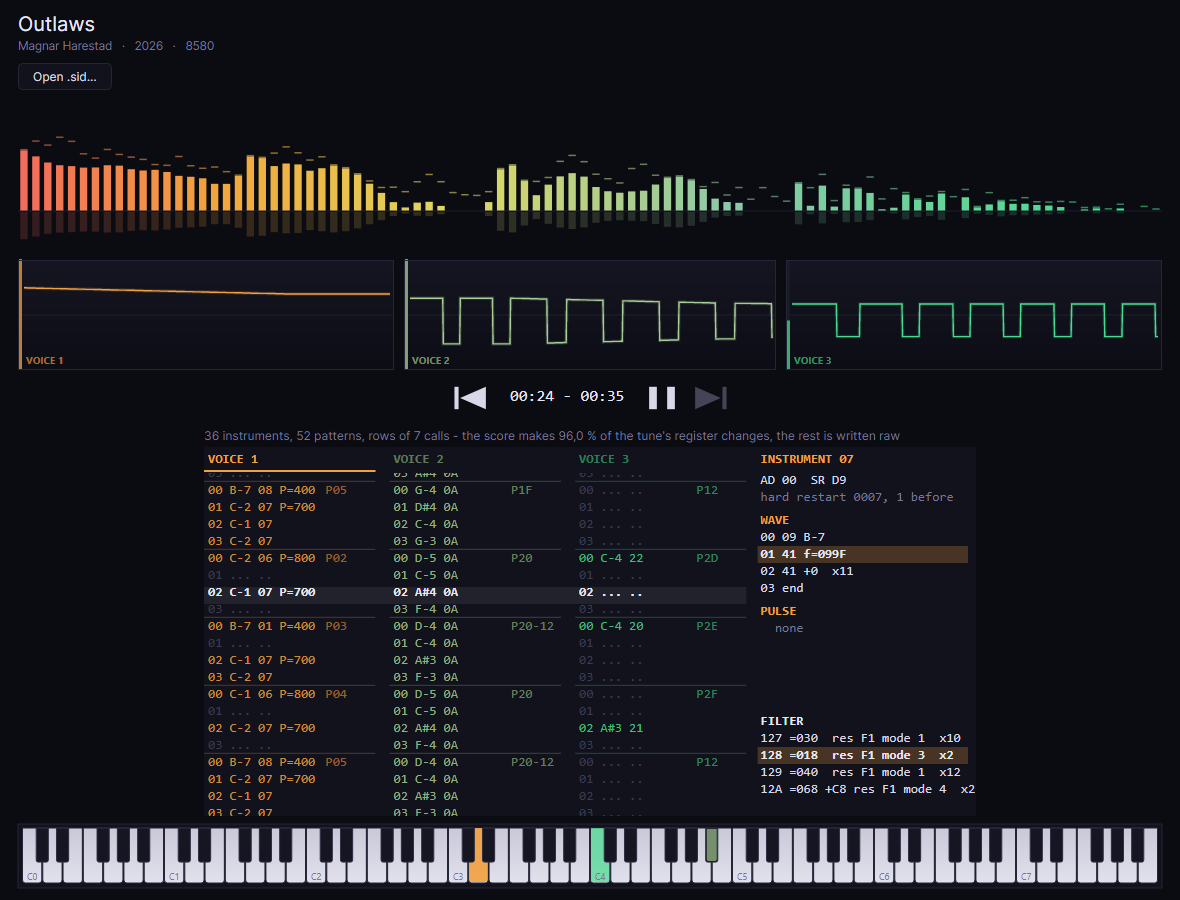
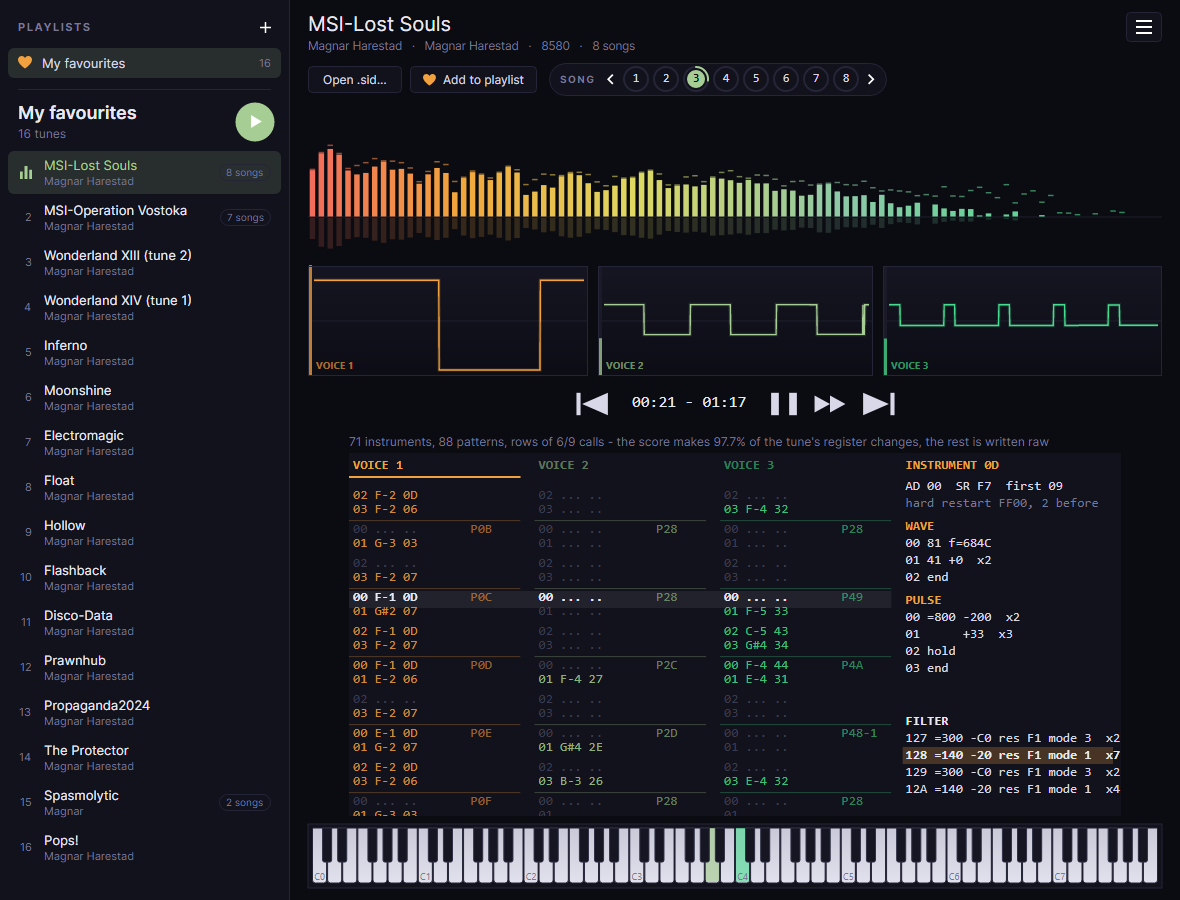
Website for 1.1: playlists, songs and fast-forward; new screenshots
The page says what 1.1 does: a folder dropped becomes a playlist, favourites made from any tune and
dragged into order, Show playlists; a tune's songs as buttons with Play every song; fast-forward
while held; Big font beside the update check. Drop and play and Get started name the folder and
the keys. Its version, date and download links are 1.1's until GitHub answers.

The screenshots are the window as it is, drawn off-screen with the author's own tunes: MSI-Lost
Souls from a favourites playlist, and Golf Dash -EXTENDED- from a folder playlist - in place of
the two from before the playlists.

diff --git a/docs/index.html b/docs/index.html
@@ -4,7 +4,7 @@
 <meta charset="utf-8">
 <meta name="viewport" content="width=device-width, initial-scale=1">
 <title>MagPlaySID - plays any C64 .sid and shows how it is built</title>
-<meta name="description" content="MagPlaySID - plays any Commodore 64 .sid tune on an emulated C64, and shows it as tracker rows - notes, instruments and effects - scrolling with the music.">
+<meta name="description" content="MagPlaySID - plays any Commodore 64 .sid tune on an emulated C64, and shows it as tracker rows - notes, instruments and effects - scrolling with the music. Drop a folder to play it as a playlist, and keep your favourites.">
 <link rel="icon" href="favicon.png">
 <link rel="stylesheet" href="style.css?v=1">
 </head>
@@ -15,26 +15,27 @@
 <main class="wrap">
   <section class="hero">
     <img src="logo.png" alt="MagPlaySID logo">
-    <h1>MagPlaySID <span id="version">v1.0</span></h1>
-    <p class="released">Release date: <time id="released" datetime="2026-10-29">2026-10-29</time></p>
+    <h1>MagPlaySID <span id="version">v1.1</span></h1>
+    <p class="released">Release date: <time id="released" datetime="2026-10-30">2026-10-30</time></p>
     <p>A player for Commodore 64 music that shows how a tune is built. Drop any <code>.sid</code> on it:
       it plays on an emulated C64, and you see it as a tracker would - its notes, instruments and effects
-      in rows that scroll with the music.</p>
+      in rows that scroll with the music. Drop a whole folder and it becomes a playlist; keep the tunes
+      you love in playlists of your own.</p>
     <div class="download">
       <a class="button" id="windows" href="https://github.com/MagnarHarestad/MagPlaySID/releases/latest">Download for Windows</a>
       <small>Free and open source · Windows 10/11, 64-bit · nothing to install, .NET is inside</small>
       <p class="also"><span class="tag">Preview</span> Also for
-        <a id="macos-arm64" href="https://github.com/MagnarHarestad/MagPlaySID/releases/download/v1.0/MagPlaySID-1.0-macos-arm64.zip">macOS · Apple Silicon</a>
-        <a id="macos-x64" href="https://github.com/MagnarHarestad/MagPlaySID/releases/download/v1.0/MagPlaySID-1.0-macos-x64.zip">macOS · Intel</a>
-        <a id="linux-x64" href="https://github.com/MagnarHarestad/MagPlaySID/releases/download/v1.0/MagPlaySID-1.0-linux-x64.tar.gz">Linux · x64</a>
+        <a id="macos-arm64" href="https://github.com/MagnarHarestad/MagPlaySID/releases/download/v1.1/MagPlaySID-1.1-macos-arm64.zip">macOS · Apple Silicon</a>
+        <a id="macos-x64" href="https://github.com/MagnarHarestad/MagPlaySID/releases/download/v1.1/MagPlaySID-1.1-macos-x64.zip">macOS · Intel</a>
+        <a id="linux-x64" href="https://github.com/MagnarHarestad/MagPlaySID/releases/download/v1.1/MagPlaySID-1.1-linux-x64.tar.gz">Linux · x64</a>
         <a class="plain" id="notes" href="https://github.com/MagnarHarestad/MagPlaySID/releases/latest">release notes</a>
         <a class="plain" href="#mac">opening it on a Mac</a></p>
     </div>
   </section>
 
   <figure class="shot">
-    <img src="screenshots/player.png" width="1180" height="900" alt="MagPlaySID playing Outlaws: a spectrum, a scope per voice, the tune's rows with the selected voice's instrument beside them, and a piano along the bottom">
-    <figcaption>Playing <i>Outlaws</i> - the spectrum, a scope per voice, the tune's rows scrolling, the instrument sounding and its programs, and the keys each voice is on.</figcaption>
+    <img src="screenshots/player.png" width="1180" height="900" alt="MagPlaySID playing MSI-Lost Souls from a favourites playlist: the playlist down the left, the tune's eight songs beside Add to playlist with the third playing, a spectrum, a scope per voice, the tune's rows with the selected voice's instrument beside them, and a piano along the bottom">
+    <figcaption>Playing <i>MSI-Lost Souls</i> from a favourites playlist - its third of eight songs, ringed as it plays - with the spectrum, a scope per voice, the rows scrolling, the instrument sounding and its programs, and the keys each voice is on.</figcaption>
   </figure>
 
   <h2 id="features">What it does</h2>
@@ -47,21 +48,25 @@
     <div class="card"><div class="i">🎹</div><h3>A piano</h3><p>Eight octaves along the bottom, each voice's key lit in its colour as loud as its envelope - an arpeggio, a slide or a drum shows as it plays.</p></div>
     <div class="card"><div class="i">🎛</div><h3>2SID and 3SID</h3><p>Tunes for two or three SID chips play on all of them, each the model its header names, with a scope and score columns for every voice.</p></div>
     <div class="card"><div class="i">⏱</div><h3>Its length</h3><p>Measured on the C64 by watching for the tune's memory to come round again - an RSID's too - so the clock says how long it plays before it repeats.</p></div>
-    <div class="card"><div class="i">📂</div><h3>Drop and play</h3><p>Drag a <code>.sid</code> from the desktop onto the window, open one, or name it on the command line. Space pauses, and the rows stop with the music.</p></div>
-    <div class="card"><div class="i">🔔</div><h3>Up to date</h3><p>Asked once, the first time it starts: say yes and MagPlaySID looks for a newer version each time it opens, and offers this page when there is one. <b>Check for updates at start</b> in the menu at the top right turns it on or off.</p></div>
+    <div class="card"><div class="i">📂</div><h3>Drop and play</h3><p>Drag a <code>.sid</code> from the desktop onto the window, open one, or name it on the command line. Space pauses, and the rows stop with the music; in a playlist, the arrow keys go to the tune before or after.</p></div>
+    <div class="card"><div class="i">🎶</div><h3>Playlists</h3><p>Drop a folder of <code>.sid</code> files - or several tunes - on the window and it becomes a playlist down the left, played one tune after another, each moving on once it has played its length. Make playlists of your favourites from any tune with <b>♥ Add to playlist</b> or a right-click; drag a tune up or down to change the order. <b>Show playlists</b> in the menu opens and hides the strip.</p></div>
+    <div class="card"><div class="i">🔢</div><h3>Every song</h3><p>A tune of several songs shows them as round buttons beside Add to playlist, the one playing ringed as it goes: click one, or press 1-9, + and -. Previous and Next move between tunes, and <b>Play every song of a tune</b> in the menu plays all of a tune's songs before the next.</p></div>
+    <div class="card"><div class="i">⏩</div><h3>Hold to fast-forward</h3><p>Hold the fast-forward button beside play - or the F key - and the tune runs four times as fast, quietly, with the clock, scopes, rows and piano keeping up. Let go and it plays on as before.</p></div>
+    <div class="card"><div class="i">⚙</div><h3>Yours to set</h3><p>The menu at the top right: <b>Big font</b> makes the rows, the tune's details and the labels a quarter larger. <b>Check for updates at start</b> - asked once, the first time - looks for a newer version each time MagPlaySID opens, and offers this page when there is one.</p></div>
   </div>
 
   <figure class="shot">
-    <img src="screenshots/satellite.png" width="1180" height="900" alt="MagPlaySID playing Satellite, an instrument's wave and pulse programs beside the rows">
-    <figcaption>Playing <i>Satellite</i> - an instrument with a control byte of its own on a note's first call, its wave program from the next, its pulse sweeping.</figcaption>
+    <img src="screenshots/playlist.png" width="1180" height="900" alt="MagPlaySID playing Golf Dash Extended from a folder dropped on the window: the folder as a playlist above the favourites, its seven tunes listed with how many songs each has, and the tune's three songs beside Add to playlist">
+    <figcaption>A folder dropped on the window, playing as a playlist above the favourites - <i>Golf Dash -EXTENDED-</i>, the first of its three songs, and the tunes after it waiting their turn.</figcaption>
   </figure>
 
   <h2 id="start">Get started</h2>
   <ol class="steps">
     <li>Download the package for your system from the <a href="https://github.com/MagnarHarestad/MagPlaySID/releases/latest">latest release</a>. .NET is inside - there is nothing else to install.</li>
     <li><b>Windows:</b> unzip it anywhere and run <code>MagPlaySID.exe</code>. <b>Linux:</b> unpack it and run <code>./MagPlaySID</code>. <b>Mac:</b> unzip it and move MagPlaySID to Applications.</li>
-    <li>Drop a <code>.sid</code> on the window, or choose <b>Open .sid...</b>. The <a href="https://www.hvsc.c64.org">High Voltage SID Collection</a> has tens of thousands of them.</li>
+    <li>Drop a <code>.sid</code> on the window, or choose <b>Open .sid...</b> - or drop a whole folder to play it as a playlist. The <a href="https://www.hvsc.c64.org">High Voltage SID Collection</a> has tens of thousands of them.</li>
     <li>Click a scope to mute its voice; click a voice's rows to see its instrument.</li>
+    <li>Keep the tunes you like: <b>♥ Add to playlist</b> while one plays. Keys: Space pauses, ← and → change tune in a playlist, 1-9 pick a song, and F held fast-forwards.</li>
   </ol>
   <div class="note">The Windows exe is not code-signed, so Windows SmartScreen may say it comes from an unknown publisher. Choose <b>More info → Run anyway</b>.</div>
   <div class="note mac" id="mac">
@@ -97,7 +102,7 @@
 
 <footer><div class="wrap"><span>© 2026 Magnar Harestad · Censor Design</span><a href="https://github.com/MagnarHarestad/MagPlaySID">Source on GitHub</a><a href="https://github.com/MagnarHarestad/MagPlaySID/releases">Releases</a><a href="https://github.com/MagnarHarestad/MagPlaySID/issues">Report a problem</a><a href="https://magnarharestad.github.io/MagSID/">MagSID Editor</a></div></footer>
 <script>
-// The version, the release date and the downloads follow the latest release; v1.0 stands until
+// The version, the release date and the downloads follow the latest release; v1.1 stands until
 // GitHub answers, or if it does not.
 fetch('https://api.github.com/repos/MagnarHarestad/MagPlaySID/releases/latest')
   .then(response => response.ok ? response.json() : null)
